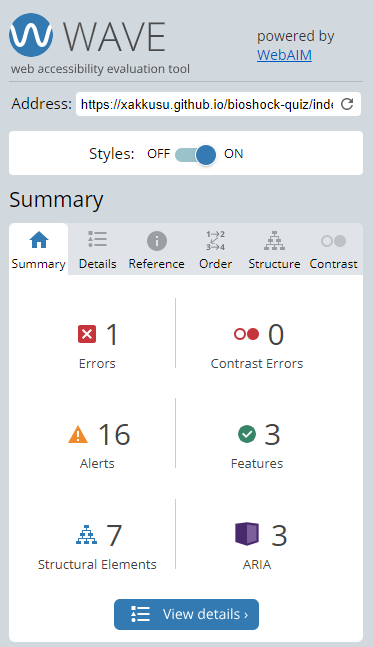
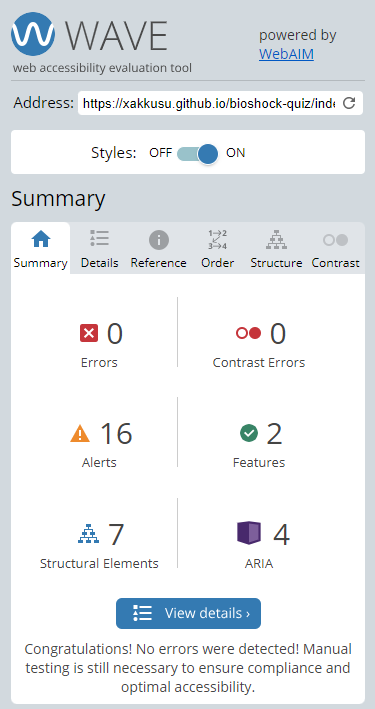
docs: Adjust wave testing section in README file

Changed region(s): [[0.0, 0.0, 0.9706, 0.9892], [0.6765, 0.0309, 0.9118, 0.0927], [0.7353, 0.8037, 0.7647, 0.8655]]

diff --git a/README.md b/README.md
@@ -335,13 +335,6 @@ Quiz:
 
 <img src="docs/testing/wave-index.png" alt="Wave index rating" width="40%">
 
-<details>
-<summary>Error</summary>
-Error shows a missing form label, even though form label is there it is just hidden as the placeholder explains what should be done with the input element.
-
-<img src="docs/testing/wave-index-error.png" alt="code with form label">
-</details>
-
 ##### Quiz Page
 
 <img src="docs/testing/wave-quiz.png" alt="Wave quiz rating" width="40%">
